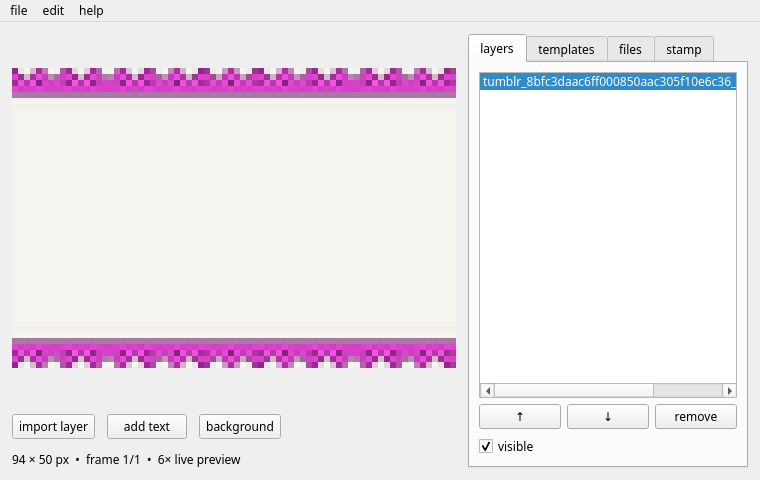
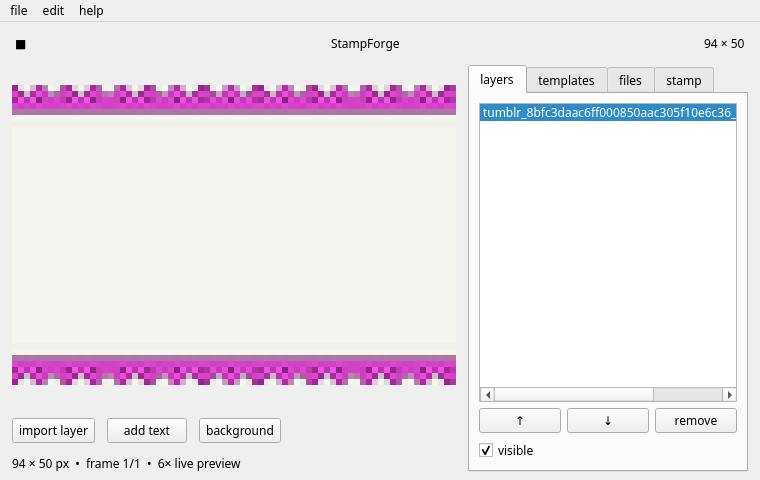
Polish Mac-style interface and document workflow

diff --git a/stampforge.py b/stampforge.py
@@ -95,8 +95,15 @@ class StampForge(QMainWindow):
 
     def _build_ui(self):
         root = QWidget(); self.setCentralWidget(root)
-        outer = QHBoxLayout(root); outer.setContentsMargins(12, 12, 12, 12); outer.setSpacing(12)
-        left = QVBoxLayout(); outer.addLayout(left, 1)
+        outer = QVBoxLayout(root); outer.setContentsMargins(8, 8, 8, 8); outer.setSpacing(8)
+        titlebar = QWidget(); titlebar.setObjectName("mac-titlebar"); titlebar.setFixedHeight(27)
+        title_row = QHBoxLayout(titlebar); title_row.setContentsMargins(7, 2, 7, 2)
+        close_box = QLabel("■"); close_box.setObjectName("mac-close"); title_row.addWidget(close_box)
+        title_row.addStretch(); title_row.addWidget(QLabel("StampForge")); title_row.addStretch(); title_row.addWidget(QLabel("94 × 50"))
+        outer.addWidget(titlebar)
+        body = QWidget(); outer.addWidget(body, 1)
+        body_layout = QHBoxLayout(body); body_layout.setContentsMargins(4, 0, 4, 0); body_layout.setSpacing(12)
+        left = QVBoxLayout(); body_layout.addLayout(left, 1)
         self.preview = QLabel(); self.preview.setAlignment(Qt.AlignCenter); self.preview.setMinimumSize(360, 260); self.preview.setObjectName("preview")
         left.addWidget(self.preview, 1)
         controls = QHBoxLayout()
@@ -106,7 +113,7 @@ class StampForge(QMainWindow):
         self.frame_label = QLabel("94 × 50 px  •  frame 1/1  •  live preview")
         left.addWidget(self.frame_label)
 
-        tabs = QTabWidget(); tabs.setFixedWidth(280); outer.addWidget(tabs)
+        tabs = QTabWidget(); tabs.setFixedWidth(280); body_layout.addWidget(tabs)
         layers_tab = QWidget(); layers_layout = QVBoxLayout(layers_tab)
         self.layer_list = QListWidget(); self.layer_list.currentRowChanged.connect(self._layer_selected); layers_layout.addWidget(self.layer_list)
         row = QHBoxLayout()
@@ -369,6 +376,9 @@ def main():
       QGroupBox { border:1px solid #111; margin-top:10px; padding-top:8px; }
       QGroupBox::title { subcontrol-origin:margin; left:8px; padding:0 3px; background:#bdbdbd; }
       QStatusBar { background:#d7d7d7; border-top:1px solid #111; }
+      #mac-titlebar { background:#d7d7d7; border:1px solid #111; border-top-color:#fff; border-left-color:#fff; }
+      #mac-titlebar QLabel { background:transparent; font-weight:bold; }
+      #mac-titlebar #mac-close { border:1px solid #111; padding:0 2px; font-size:8px; }
       #preview { background:#2b2b2b; border:2px solid #111; }
     """)
     win = StampForge(); win.show(); sys.exit(app.exec())
